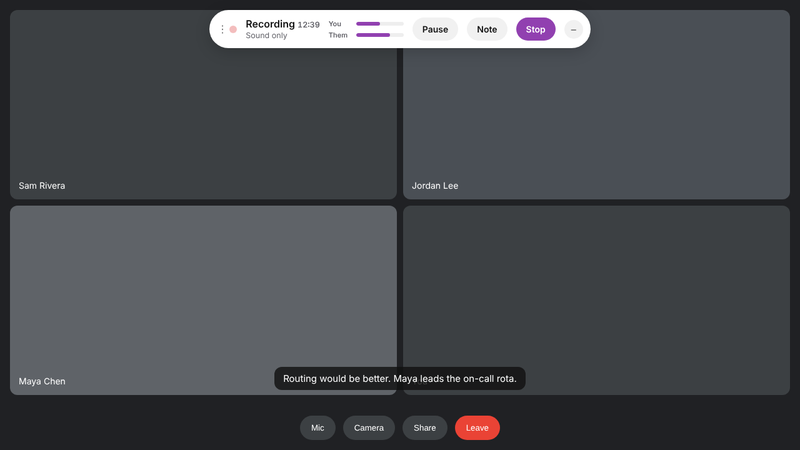
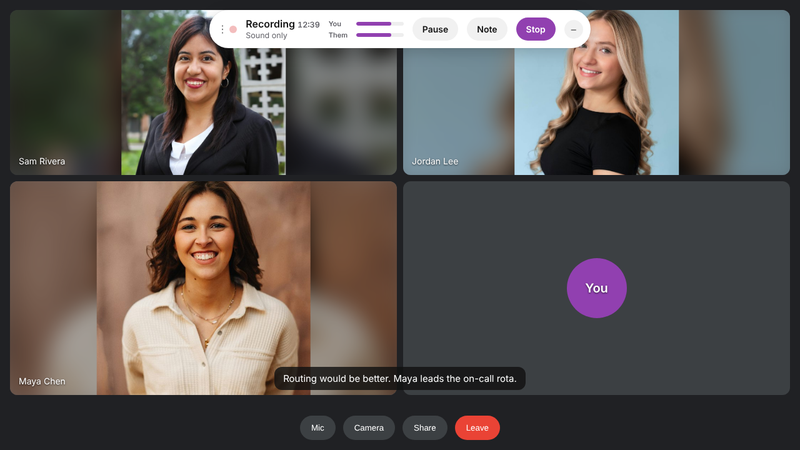
Demo call shows real people (free Unsplash photos, credited in the README)
Claude-Session: https://claude.ai/code/session_01XxM5R1qkHqfeeVmT2M5SfL

diff --git a/README.md b/README.md
@@ -60,7 +60,7 @@ and Brave, but they are not tested yet.
 
 ## What it looks like
 
-Every picture here comes from made-up data in the test run.
+Every picture here comes from made-up data in the test run; the people on the call are free Unsplash photos (see [Photo credits](#photo-credits)).
 
 **On a call**, a card asks whether to record. One press records both sides;
 the Video switch adds the picture.
@@ -395,6 +395,14 @@ microphone, so they are checked by hand before a release.
 Bug reports, ideas and pull requests are welcome. Read
 [CONTRIBUTING.md](CONTRIBUTING.md) first; report security problems as
 described in [SECURITY.md](SECURITY.md).
+
+## Photo credits
+
+The people on the demo call are free photos from [Unsplash](https://unsplash.com/license):
+by [Philip White](https://unsplash.com/@philipwhite?utm_source=unsplash&utm_medium=referral&utm_content=creditCopyText),
+[Devin Santiago](https://unsplash.com/@ydcphotography?utm_source=unsplash&utm_medium=referral&utm_content=creditCopyText)
+and [Brooke Balentine](https://unsplash.com/@brookebalentine?utm_source=unsplash&utm_medium=referral&utm_content=creditCopyText).
+The names on the call are made up.
 
 ## Licence
 
